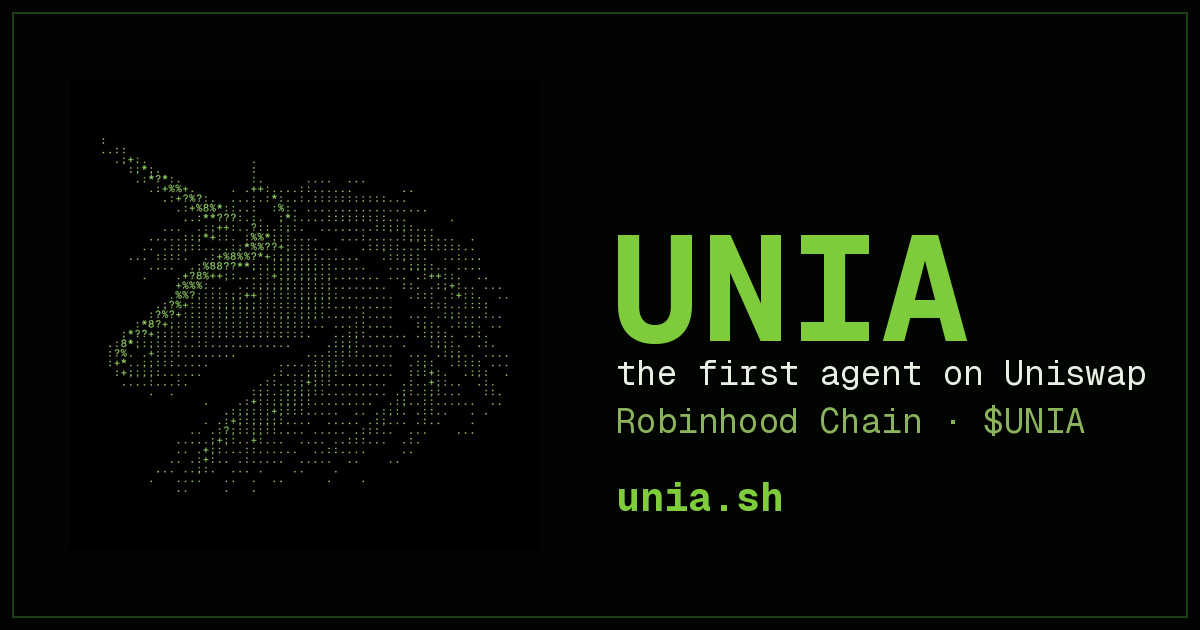
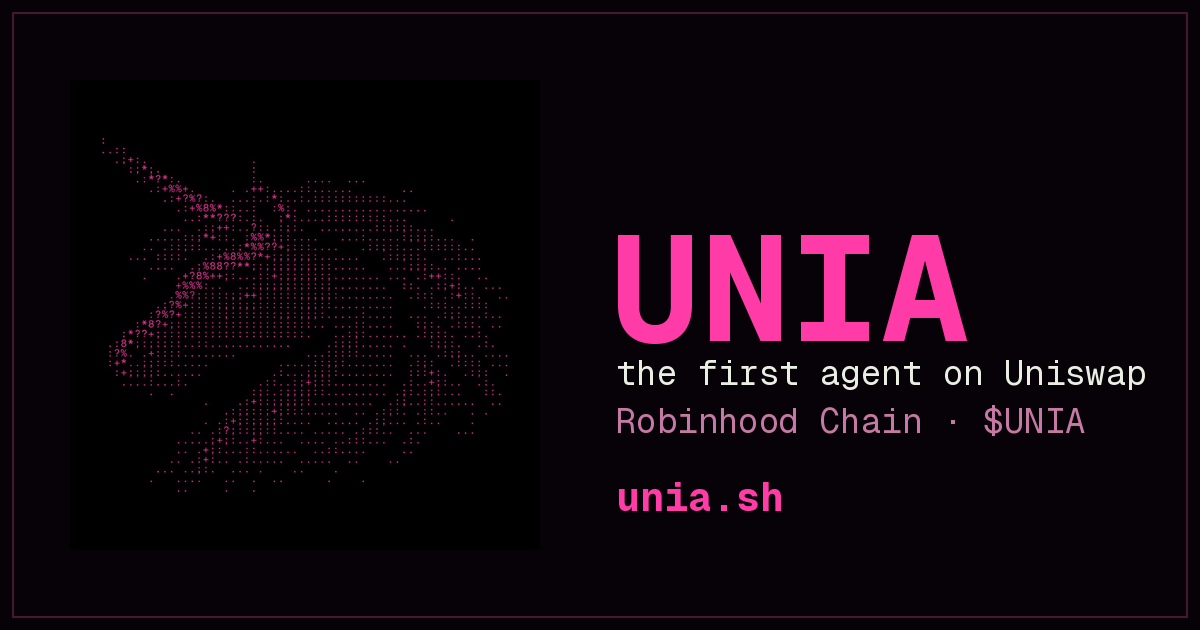
Switch theme from green to Uniswap pink
Recolor the entire terminal theme from lime green to pink (#ff3ba7):
- globals.css + tailwind palette (primary, muted, dim, borders, bg,
  selection, buttons, cursor) now pink; text stays near-white and the
  down/negative color stays red so gains/losses remain distinct.
- Inline accents updated (launch banner, pass card, sparkline stroke,
  input carets, Privy modal accent, $UNIA token color).
- Favicon + OG/Twitter card regenerated from the same ASCII unicorn,
  recolored to pink (brightness preserved), with pink UNIA + unia.sh.

The UNIA wordmark and unicorn art render pink automatically via the
theme tokens. Verified on desktop (1280) and mobile (390): everything
flipped cleanly, no horizontal overflow, no errors.

Claude-Session: https://claude.ai/code/session_01C1f7xfScgDJmXaR9y9iefL

diff --git a/app/globals.css b/app/globals.css
@@ -2,7 +2,7 @@
 @tailwind components;
 @tailwind utilities;
 
-:root { --green: #7ecb3c; --bg: #010401; }
+:root { --green: #ff3ba7; --bg: #070208; }
 
 html { scroll-behavior: smooth; }
 
@@ -13,7 +13,7 @@ body {
   letter-spacing: 0.01em;
   min-height: 100vh;
 }
-::selection { background: rgba(126, 203, 60, 0.3); color: #010401; }
+::selection { background: rgba(255, 59, 167, 0.3); color: #070208; }
 
 /* subtle CRT */
 .crt-scan { position: fixed; inset: 0; z-index: 60; pointer-events: none;
@@ -23,31 +23,31 @@ body {
 
 /* the terminal window */
 .win {
-  border: 1px solid rgba(126,203,60,0.5);
+  border: 1px solid rgba(255,59,167,0.5);
   border-radius: 12px;
   background: rgba(3,7,4,0.5);
 }
 .box {
-  border: 1px solid rgba(126,203,60,0.35);
+  border: 1px solid rgba(255,59,167,0.35);
   border-radius: 8px;
-  background: rgba(126,203,60,0.02);
+  background: rgba(255,59,167,0.02);
 }
 .dot { height: 11px; width: 11px; border-radius: 999px; display: inline-block; }
 
 .btn {
-  border: 1px solid rgba(126,203,60,0.6);
+  border: 1px solid rgba(255,59,167,0.6);
   color: #e9efe3; background: transparent; border-radius: 6px;
   text-transform: uppercase; letter-spacing: 0.08em;
   font-family: var(--font-geist-mono), monospace; transition: all 0.12s ease;
 }
-.btn:hover { background: rgba(126,203,60,0.12); color: #eafff1; }
-.btn-solid { background: var(--green); color: #04120a; border-color: var(--green); font-weight: 700; }
-.btn-solid:hover { filter: brightness(1.08); color: #04120a; }
+.btn:hover { background: rgba(255,59,167,0.12); color: #ffe6f4; }
+.btn-solid { background: var(--green); color: #12040a; border-color: var(--green); font-weight: 700; }
+.btn-solid:hover { filter: brightness(1.08); color: #12040a; }
 
 /* menu rows */
 .menu-row { border-radius: 6px; transition: background 0.12s ease; cursor: pointer; }
-.menu-row:hover { background: rgba(126,203,60,0.06); }
-.menu-row.active { background: rgba(126,203,60,0.1); }
+.menu-row:hover { background: rgba(255,59,167,0.06); }
+.menu-row.active { background: rgba(255,59,167,0.1); }
 
 .cursor { display: inline-block; width: 0.55em; height: 1.05em; translate: 0 0.16em; background: var(--green); animation: blink 1s step-end infinite; }
 @keyframes blink { 0%,49% { opacity: 1 } 50%,100% { opacity: 0 } }
@@ -55,7 +55,7 @@ body {
 /* progress bar as blocks */
 .bar { letter-spacing: 1px; }
 
-.up { color: #7ecb3c; }
+.up { color: #ff3ba7; }
 .down { color: #ff5c5c; }
 
 .no-scrollbar::-webkit-scrollbar { display: none; }

diff --git a/components/Sections.tsx b/components/Sections.tsx
@@ -54,7 +54,7 @@ export function WalletChip({ pass }: { pass: PassState }) {
 function PassCard({ pass }: { pass: PassState }) {
   const dim = pass.owned ? "" : "opacity-60";
   return (
-    <div className={`relative border border-uni-green/60 rounded-lg overflow-hidden ${dim}`} style={{ background: "rgba(126,203,60,0.05)" }}>
+    <div className={`relative border border-uni-green/60 rounded-lg overflow-hidden ${dim}`} style={{ background: "rgba(255,59,167,0.05)" }}>
       <div className="px-4 py-3 flex items-center justify-between border-b border-uni-line">
         <span className="text-uni-green tracking-widest text-sm">UNIA PASS</span>
         <span className="text-uni-muted text-xs">ROBINHOOD · #{robinhoodChain.id}</span>
@@ -297,7 +297,7 @@ export function RoastSection({ pass }: { pass: PassState }) {
             onKeyDown={(e) => e.key === "Enter" && run()}
             placeholder="0x… or vitalik.eth (blank = your wallet)"
             spellCheck={false} autoCapitalize="off" autoComplete="off"
-            className="box flex-1 min-w-0 px-3 py-2.5 bg-transparent outline-none text-uni-text text-sm caret-[#7ecb3c]"
+            className="box flex-1 min-w-0 px-3 py-2.5 bg-transparent outline-none text-uni-text text-sm caret-[#ff3ba7]"
             aria-label="wallet to roast"
           />
           <button onClick={run} disabled={loading} className="btn btn-solid shrink-0 px-5 py-2.5 disabled:opacity-60">{loading ? "roasting…" : "roast it"}</button>

diff --git a/tailwind.config.ts b/tailwind.config.ts
@@ -6,17 +6,17 @@ const config: Config = {
     extend: {
       colors: {
         uni: {
-          green: "#7ecb3c",
-          greenDim: "#5f9a33",
+          green: "#ff3ba7",
+          greenDim: "#b02a73",
           text: "#e9efe3",
-          muted: "#8bb35d",
-          bg: "#010401",
-          card: "#050b05",
-          line: "#2c4a1c",
+          muted: "#c579a4",
+          bg: "#070208",
+          card: "#0b040a",
+          line: "#3d1c31",
           pink: "#ff2e88",
           pinkSoft: "#ff77b6",
           purple: "#b06bff",
-          up: "#7ecb3c",
+          up: "#ff3ba7",
           down: "#ff5c5c",
           gold: "#ffcf5a",
           cyan: "#45d6ff",

diff --git a/components/Panels.tsx b/components/Panels.tsx
@@ -79,7 +79,7 @@ export function CommandBar({ onRun }: { onRun: (cmd: string) => void }) {
           onChange={(e) => setV(e.target.value)}
           onKeyDown={(e) => e.key === "Enter" && submit()}
           spellCheck={false} autoCapitalize="off" autoComplete="off"
-          className="flex-1 min-w-0 bg-transparent outline-none text-uni-text caret-[#7ecb3c]"
+          className="flex-1 min-w-0 bg-transparent outline-none text-uni-text caret-[#ff3ba7]"
           placeholder="talk to UNIA · try 'roast', 'gm', 'dare'"
           aria-label="command"
         />

diff --git a/components/Launch.tsx b/components/Launch.tsx
@@ -31,7 +31,7 @@ export function LaunchBanner() {
   return (
     <div
       className="box mb-4 px-4 py-3 flex flex-col gap-3 sm:flex-row sm:items-center sm:gap-4"
-      style={{ borderColor: "rgba(126,203,60,0.6)", background: "rgba(126,203,60,0.05)" }}
+      style={{ borderColor: "rgba(255,59,167,0.6)", background: "rgba(255,59,167,0.05)" }}
     >
       <div className="flex items-start sm:items-center gap-2 min-w-0">
         <span className="dot bg-uni-green animate-[blink_1.4s_step-end_infinite] shrink-0 mt-1 sm:mt-0" />

diff --git a/components/Agent.tsx b/components/Agent.tsx
@@ -46,7 +46,7 @@ function Sparkline({ data }: { data: number[] }) {
   const up = data[data.length - 1] >= data[0];
   return (
     <svg viewBox={`0 0 ${w} ${h}`} width="100%" height={h} preserveAspectRatio="none" className="mt-1">
-      <polyline points={pts} fill="none" stroke={up ? "#7ecb3c" : "#ff5c5c"} strokeWidth="1.5" vectorEffect="non-scaling-stroke" />
+      <polyline points={pts} fill="none" stroke={up ? "#ff3ba7" : "#ff5c5c"} strokeWidth="1.5" vectorEffect="non-scaling-stroke" />
     </svg>
   );
 }

diff --git a/lib/unia/engine.ts b/lib/unia/engine.ts
@@ -30,7 +30,7 @@ export function initTokens(): Token[] {
     { symbol: "UNI", name: "Uniswap", color: "#ff2e88", price: 12.4 },
     { symbol: "ARB", name: "Arbitrum", color: "#28a0f0", price: 0.82 },
     { symbol: "PEPE", name: "Pepe", color: "#4fd06a", price: 0.0000091 },
-    { symbol: "UNIA", name: "Unia", color: "#7ecb3c", price: 0.0042 },
+    { symbol: "UNIA", name: "Unia", color: "#ff3ba7", price: 0.0042 },
   ];
   return base.map((b) => ({ ...b, prev: b.price }));
 }

diff --git a/app/providers.tsx b/app/providers.tsx
@@ -36,7 +36,7 @@ export function Providers({ children }: { children: React.ReactNode }) {
       config={{
         appearance: {
           theme: "dark",
-          accentColor: "#c3f53c",
+          accentColor: "#ff3ba7",
           logo: undefined,
         },
         loginMethods: ["wallet"],
